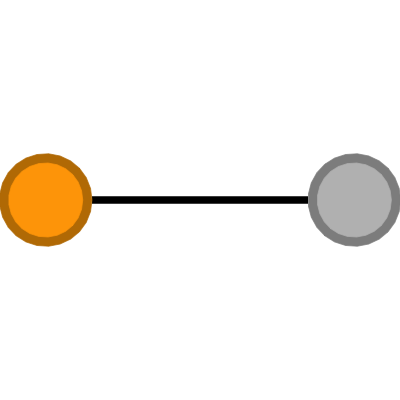
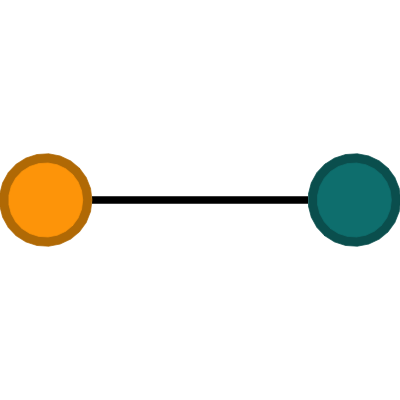
Add table notes, teal mixing color, and altkstar term
- tabulergm_table() (markdown/html) and tabulergm_save() (markdown/
  latex) now append an explanatory note below the table when the term
  figures use drawing conventions: orange focal attributes, orange/teal
  mixing, and square/circle bipartite modes. Notes are derived from the
  YAML plot specs of the terms shown, so they only appear when relevant.
- Mixing terms (nodemix, b1starmix, b2starmix) now pair orange with
  teal (#008080) instead of gray, a colorblind-friendly contrast that
  distinguishes the two attribute categories from attribute-irrelevant
  gray nodes.
- New altkstar.undirected.yml with the Snijders et al. (2006)
  alternating k-star statistic (verified numerically against ergm),
  added to the README and vignette dictionary tables.

Changed region(s): [[0.75, 0.36, 1.0, 0.63]]

diff --git a/README.md b/README.md
@@ -97,7 +97,7 @@ with both directed and undirected definitions (`edges`, `gwesp`,
 dictionary_terms <- network ~
   edges + mutual + triangle +
   gwesp(0.5, fixed = TRUE) + gwdsp(0.5, fixed = TRUE) +
-  gwdegree(0.5, fixed = TRUE) +
+  gwdegree(0.5, fixed = TRUE) + altkstar(2, fixed = TRUE) +
   nodematch("attr") + nodefactor("attr") + nodemix("attr") +
   nodecov("attr") + absdiff("attr") + edgecov("cov") +
   transitiveties + cyclicalties +
@@ -118,6 +118,7 @@ tabulergm_table(dictionary_terms, format = "markdown")
 | gwesp | <img src="man/figures/README-gwesp.png" width="80" /> | $\exp{(\tau)} \sum_{i=1}^{n-2} \left[1 - \left(1 - \exp{(-\tau)}\right)^i\right] EP_i(y)$ | Geometrically weighted edgewise shared partner distribution |
 | gwdsp | <img src="man/figures/README-gwdsp.png" width="80" /> | $\exp{(\tau)} \sum_{i=1}^{n-2} \left[1 - \left(1 - \exp{(-\tau)}\right)^i\right] DP_i(y)$ | Geometrically weighted dyadwise shared partner distribution |
 | gwdegree | <img src="man/figures/README-gwdegree.png" width="80" /> | $\exp{(\tau)} \sum_{i=1}^{n-1} \left[1 - \left(1 - \exp{(-\tau)}\right)^i\right] D_i(y)$ | Geometrically weighted degree distribution |
+| altkstar | <img src="man/figures/README-altkstar.png" width="80" /> | $\sum_{k=2}^{n-1} (-1)^k \frac{S_k(y)}{\lambda^{k-2}}$ | Alternating k-star |
 | nodematch | <img src="man/figures/README-nodematch.png" width="80" /> | $\sum_{i<j} y_{ij} \mathbf{1}(x_i = x_j)$ | Uniform homophily and differential homophily |
 | nodefactor | <img src="man/figures/README-nodefactor.png" width="80" /> | $\sum_{i<j} y_{ij} \left[\mathbf{1}(x_i = k) + \mathbf{1}(x_j = k)\right]$ | Factor attribute effect |
 | nodemix | <img src="man/figures/README-nodemix.png" width="80" /> | $\sum_{i<j} y_{ij} \mathbf{1}(\{x_i, x_j\} = \{k, l\})$ | Nodal attribute mixing |
@@ -136,6 +137,11 @@ tabulergm_table(dictionary_terms, format = "markdown")
 | b2nodematch | <img src="man/figures/README-b2nodematch.png" width="80" /> | $\sum_{k\in B_1} \sum_{i<j \in B_2} \mathbf{1}(x_i = x_j) y_{ik} y_{jk}$ | Nodal attribute-based homophily effect for the second mode in a bipartite network |
 | b1starmix | <img src="man/figures/README-b1starmix.png" width="80" /> | $\sum_{i \in B_1} \mathbf{1}(x_i = p) \sum_{j_1 < \cdots < j_k \in B_2} \prod_{l=1}^{k} y_{i j_l} \mathbf{1}(x_{j_l} = q)$ | Mixing matrix for k-stars centered on the first mode of a bipartite network |
 | b2starmix | <img src="man/figures/README-b2starmix.png" width="80" /> | $\sum_{j \in B_2} \mathbf{1}(x_j = p) \sum_{i_1 < \cdots < i_k \in B_1} \prod_{l=1}^{k} y_{i_l j} \mathbf{1}(x_{i_l} = q)$ | Mixing matrix for k-stars centered on the second mode of a bipartite network |
+
+*Note: Orange nodes indicate nodes with a focal attribute. Orange and
+teal nodes represent nodes with different values of the focal attribute.
+Square nodes represent nodes in the first mode and circle nodes in the
+second mode.*
 
 ## Code of Conduct
 

diff --git a/AGENTS.md b/AGENTS.md
@@ -12,11 +12,13 @@ documented in `R/notation.R` (help topic `?"tabulergm-notation"`). In short:
   and source literature; when ambiguous, compare numerically against
   `summary(nw ~ term)` on a small test network.
 - **Drawings**: orange = attribute-bearing nodes (matched pairs share
-  orange), gray = attribute-irrelevant, black = structural; squares mark
+  orange), orange vs. teal (`"#008080"`) = mixing between two attribute
+  values, gray = attribute-irrelevant, black = structural; squares mark
   first-mode (B1) nodes and circles second-mode (B2) nodes, with the first
   mode drawn on the left; one-mode drawings use circles only; vertex size
   1.0 for focal nodes, .5 for context; dashed lines for match/covariate
-  annotations.
+  annotations. These conventions drive the explanatory notes that
+  `tabulergm_table()` appends below rendered tables.
 - **Wiring**: no parser changes needed — files are looked up by term name
   as `inst/terms/<term>.<directed|undirected>.yml`.
 - **Coverage**: add tinytest cases in `inst/tinytest/test_term_db.R`, and